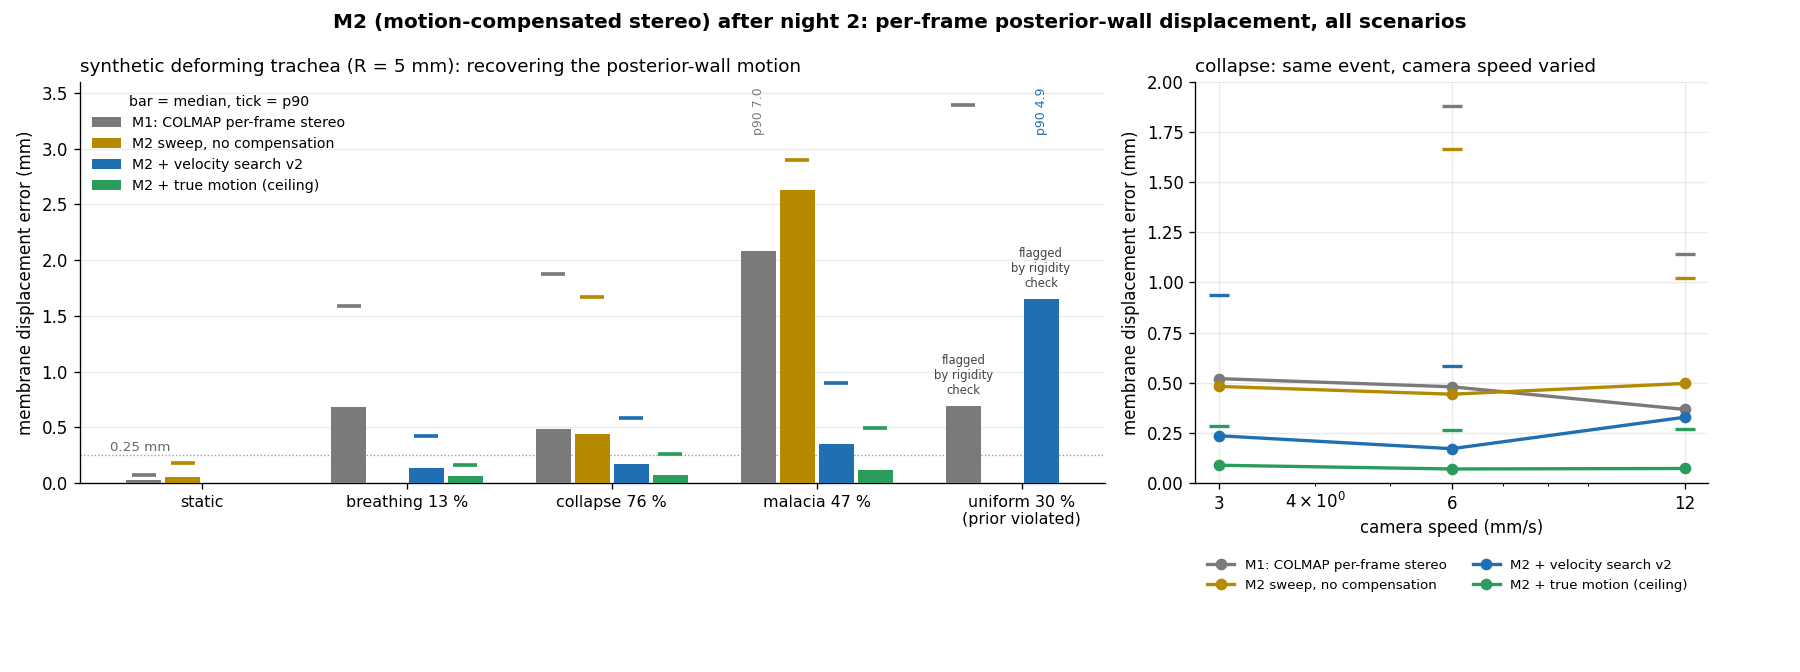
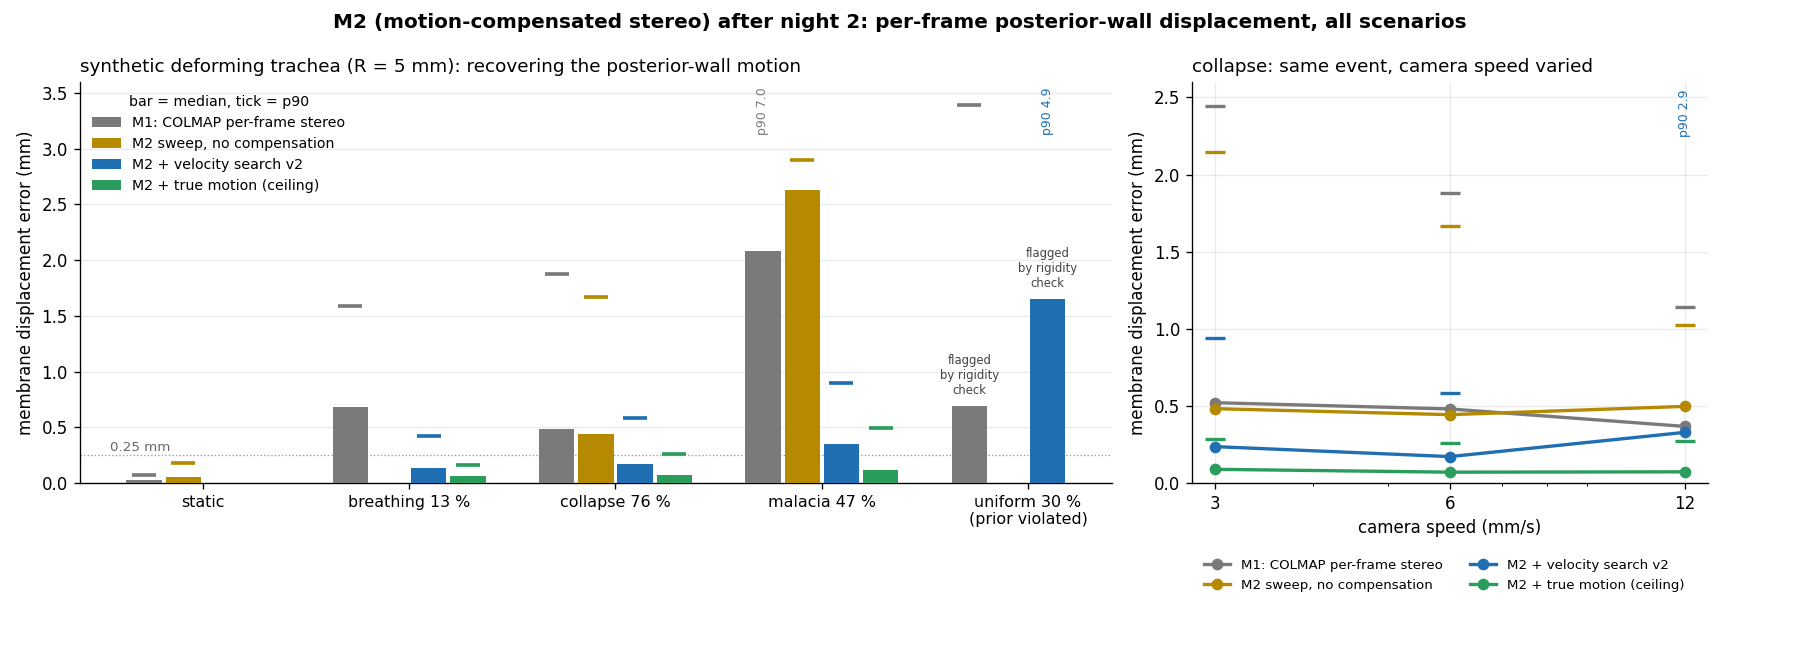
Summary figure: clean camera-speed panel ticks

diff --git a/m2/summary_figure.py b/m2/summary_figure.py
@@ -1,7 +1,7 @@
 """Night-2 summary figure: membrane displacement error per scenario and method, from the saved eval JSONs.
 Usage: python m2/summary_figure.py [--out docs/figures/m2_night2_summary.png]"""
 import json, os, argparse, numpy as np
-import matplotlib; matplotlib.use("Agg"); import matplotlib.pyplot as plt
+import matplotlib; matplotlib.use("Agg"); import matplotlib.pyplot as plt, matplotlib.ticker
 ap = argparse.ArgumentParser(); ap.add_argument("--out", default="docs/figures/m2_night2_summary.png"); a = ap.parse_args()
 def load(run):
     p = f"runs/{run}/m1_result.json"
@@ -35,9 +35,12 @@ for j, (name, pat, col) in enumerate(METHODS):
         if r is None: continue
         xs.append(v); ys.append(r["med"]); p9.append(r["p90"])
     if xs:
-        ax.plot(xs, ys, "o-", color=col, lw=2, ms=6, label=name, zorder=3); ax.plot(xs, p9, "_", color=col, ms=12, mew=2, zorder=3)
-ax.set_xscale("log"); ax.set_xticks([3, 6, 12]); ax.set_xticklabels(["3", "6", "12"]); ax.set_xlabel("camera speed (mm/s)"); ax.set_ylabel("membrane displacement error (mm)")
+        ax.plot(xs, ys, "o-", color=col, lw=2, ms=6, label=name, zorder=3)
+        for xv, pv in zip(xs, p9):
+            if pv <= 2.6: ax.plot([xv], [pv], "_", color=col, ms=12, mew=2, zorder=3)
+            else: ax.annotate(f"p90 {pv:.1f}", (xv, 2.55), ha="center", va="top", fontsize=7.5, color=col, rotation=90)
+ax.set_xscale("log"); ax.set_xticks([3, 6, 12]); ax.set_xticklabels(["3", "6", "12"]); ax.xaxis.set_minor_formatter(matplotlib.ticker.NullFormatter()); ax.set_xlabel("camera speed (mm/s)"); ax.set_ylabel("membrane displacement error (mm)")
 ax.set_title("collapse: same event, camera speed varied", fontsize=11, loc="left"); ax.grid(alpha=0.25, zorder=0); ax.spines[["top", "right"]].set_visible(False); ax.set_ylim(0, None)
-ax.legend(fontsize=8, frameon=False, loc="upper left", bbox_to_anchor=(0, -0.16), ncol=2); ax.set_ylim(0, 2.0)
+ax.legend(fontsize=8, frameon=False, loc="upper left", bbox_to_anchor=(0, -0.16), ncol=2); ax.set_ylim(0, 2.6)
 fig.suptitle("M2 (motion-compensated stereo) after night 2: per-frame posterior-wall displacement, all scenarios", fontweight="bold", fontsize=12)
 fig.tight_layout(rect=(0, 0.06, 1, 1)); os.makedirs(os.path.dirname(a.out), exist_ok=True); fig.savefig(a.out, dpi=120); print("figure:", a.out)
